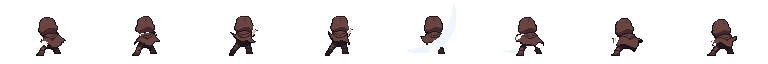
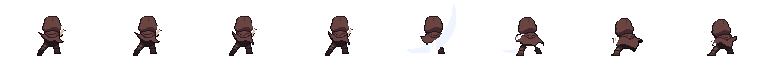
fix: 후면 1타를 칼을 든 자세에서 시작해 정면과 같은 박자로
사용자: 칼을 꺼내 옮기는 앞부분이 부자연스럽고 정면과 박자가 다름. 왼쪽 아래에서 휘돌리는 장을 빼고
정면처럼 칼을 오른쪽 어깨 위로 든 채 시작해 버티다가 0.5 에 큰 잔상과 함께 내려벤다.

diff --git a/game/config.py b/game/config.py
@@ -196,7 +196,8 @@ PLAYER_ATTACK_FRAME_SHIFTS_FRONT = (
 PLAYER_ATTACK_SWORD_BACK = (
     # 1타 (2026-11-18 사용자 지적 여러 번 끝에): PixelLab 이 1타 전체를 한 번에 이어 그린 8장. 왼쪽 아래에서 칼을 휘돌려
     # 오른쪽 어깨 위로 → 5번째(판정)에 잔상과 함께 내려벰 → 왼쪽 아래 마무리. 측면과 같은 8장 같은 간격.
-    ((47, 41, -153, True), (54, 36, 172, True), (61, 33, 61, True), (60, 33, 71, True),
+    # 6차 (사용자: 꺼내 옮기는 앞부분이 부자연스럽고 정면과 박자가 다름): 정면처럼 칼을 어깨 위로 든 채 시작해 0.5 에 내려벰
+    ((61, 33, 61, True), (61, 33, 61, True), (60, 33, 71, True), (60, 33, 71, True),
      (48, 27, -90, True, 0), (45, 37, -176, True), (43, 39, -163, True), (44, 40, -159, True)),
     ((48, 27, -90, True, 0), (50, 36, -143, True), (43, 43, -152, True), (56, 31, 60, True),
      (49, 24, 88, True), (47, 28, 64, True), (50, 34, 77, True), (48, 27, -90, True, 0)),
